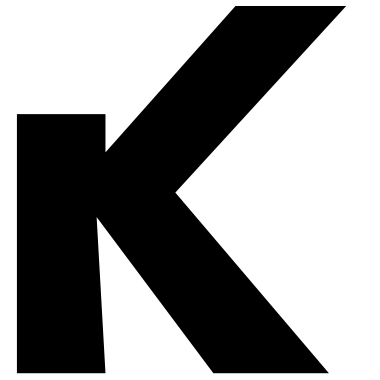
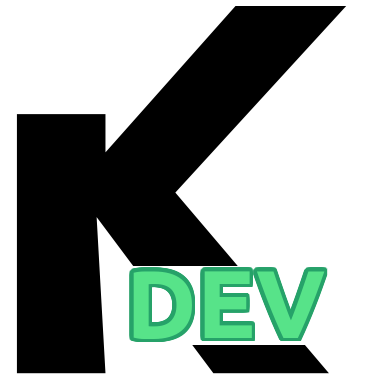
Adding build script

Changed region(s): [[0.3184, 0.6947, 0.8684, 0.9263]]

diff --git a/public/engine.js b/public/engine.js
@@ -159,7 +159,4 @@ promise.then((json) => {
     console.log(json)
 })
 
-//@ts-ignore
-console.log("Avec tsig")
-
 InstanceController._do();

diff --git a/webpack.prod.js b/webpack.prod.js
@@ -3,4 +3,5 @@ const config = require('./webpack.config.js');
 
 module.exports = merge(config, {
     mode: 'production'
+    
 })